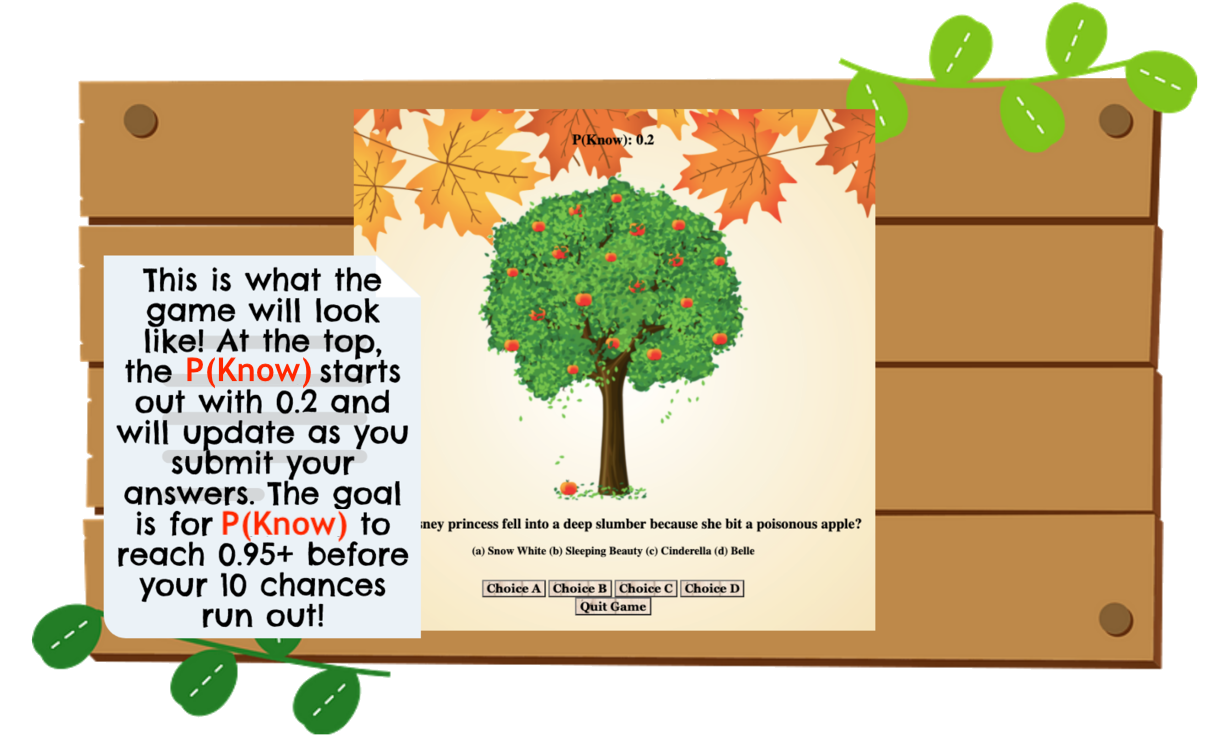
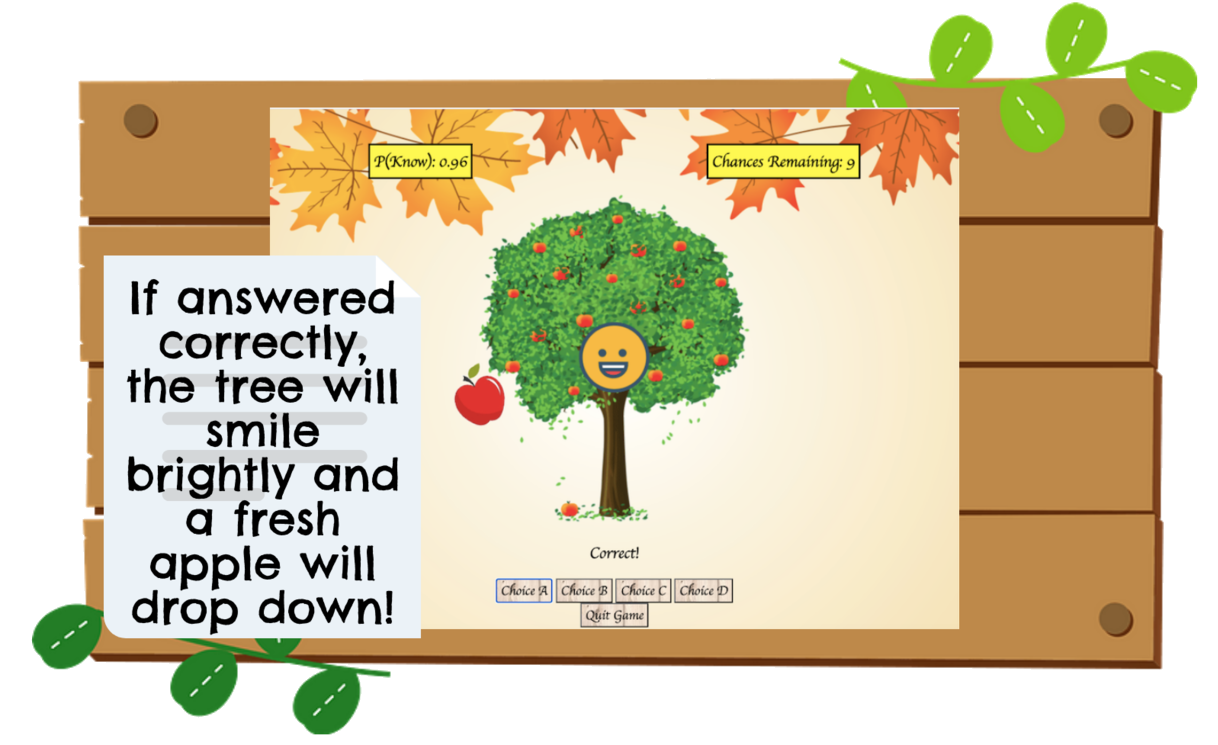
Edits to game appearance & transparency

Changed region(s): [[0.0936, 0.1235, 0.8112, 0.8644]]

diff --git a/ApplePickingBKT/index.html b/ApplePickingBKT/index.html
@@ -29,11 +29,11 @@
       <h2><i>Why</i> Is It Useful?</h2>
       <p>BKT provides us with a means to advance users’ learning experiences to make them more engaging and are utilized through Open Learning Initiatives. It’s also a great tool for instructors to infer whether or not students are successful in their efforts and can improve their curriculum accordingly.</p>
 
-      <h2 style="font-family: fantasy">Now, let's learn some apple trivia and master apple picking with BKT!</h2>
+      <h2 style="font-family: Apple Chancery, cursive">Now, let's learn some apple trivia and master apple picking with BKT!</h2>
     </div>
-    <br>
 
-    <div class="explainable" style="text-align: center; font-family: Apple Chancery, cursive">
+
+    <div class="explainable" style="text-align: center; font-family: Apple Chancery, cursive;">
       <!-- Home screen scene leading to instructions, preset, or credits -->
       <div id="home">
         <img src="graphics/logo.png" alt="logo">
@@ -96,22 +96,21 @@
 
       <!-- mainGame is scene of actual gameplay -->
       <div id="mainGame" style="display: none">
-        <h2 id="pKnow">P(Know): 0.2</h2>
+        <h2 id="pKnow" style="margin-right:350px">P(Know): 0.2</h2>
+        <h2 id="chances">Chances Remaining: 0</h2>
         <br>
-        <img id="tree" src="graphics/appleTree.png" alt="neutral tree">
+        <img id="tree" src="graphics/appleTree.png" alt="neutral tree"  style="height: 500px; width: auto">
         <h2 id = "questions"></h2>
         <h3 id = "choices"></h3>
-        <br>
           <button type="button" class="answerChoice">Choice A</button>
           <button type="button" class="answerChoice">Choice B</button>
           <button type="button" class="answerChoice">Choice C</button>
           <button type="button" class="answerChoice">Choice D</button>
-        <br>
-        <h2 id="chances">Chances Remaining: 0</h2>
+          <br>
         <button type="button" class="wood" id="quit">Quit Game</button>
       </div>
     </div>
-
+    <br>
     <script src="script.js"></script>
   </body>
 </html>

diff --git a/ApplePickingBKT/script.js b/ApplePickingBKT/script.js
@@ -440,7 +440,7 @@ function quitGame() {
 var startButton = document.getElementById('startGame')
 startButton.addEventListener("click", function() {
   if (learnValue != 0 && slipValue != 0 && guessValue != 0) {
-    window.alert("Your P(Learn) is " + learnValue + ", P(Slip) is " + slipValue + ", and P(Guess) is " + guessValue)
+    // window.alert("Your P(Learn) is " + learnValue + ", P(Slip) is " + slipValue + ", and P(Guess) is " + guessValue)
     document.getElementById('mainGame').style.display = 'block'
     document.getElementById('preset').style.display = 'none'
     firstQuestion()
@@ -578,7 +578,7 @@ function checkAnswer(choiceLetter) {
       updatePKnow(false)
     }
   }
-  setTimeout(nextQuestion, 2000)
+  setTimeout(nextQuestion, 2500)
 }
 
 function updatePKnow(correct) {
@@ -628,7 +628,8 @@ function nextQuestion() {
 
 //------Game ends
 function endGame() {
-  chanceSpace.innerHTML = "Chances Remaining: 0"
+  temp++
+  chanceSpace.innerHTML = "Chances Remaining: " + (10-temp)
   if (knowValue >= 0.95) {   //at mastery
     treeImage.src = 'graphics/excited.png'
     cheerSound.play()

diff --git a/ApplePickingBKT/stylesheet.css b/ApplePickingBKT/stylesheet.css
@@ -13,10 +13,17 @@ body {
   line-height: 1.6
 }
 
-
 .wood, .pLearnButton, .pSlipButton, .pGuessButton, .answerChoice {
   background-image: url('graphics/wood.jpg');
   cursor: pointer;
   font-family: Apple Chancery, cursive;
   font-size: 20px;
+}
+
+#pKnow, #chances {
+  font-weight: bolder;
+  display:inline-block;
+  background-color: yellow;
+  padding: 5px;
+  border: 3px solid black
 }
